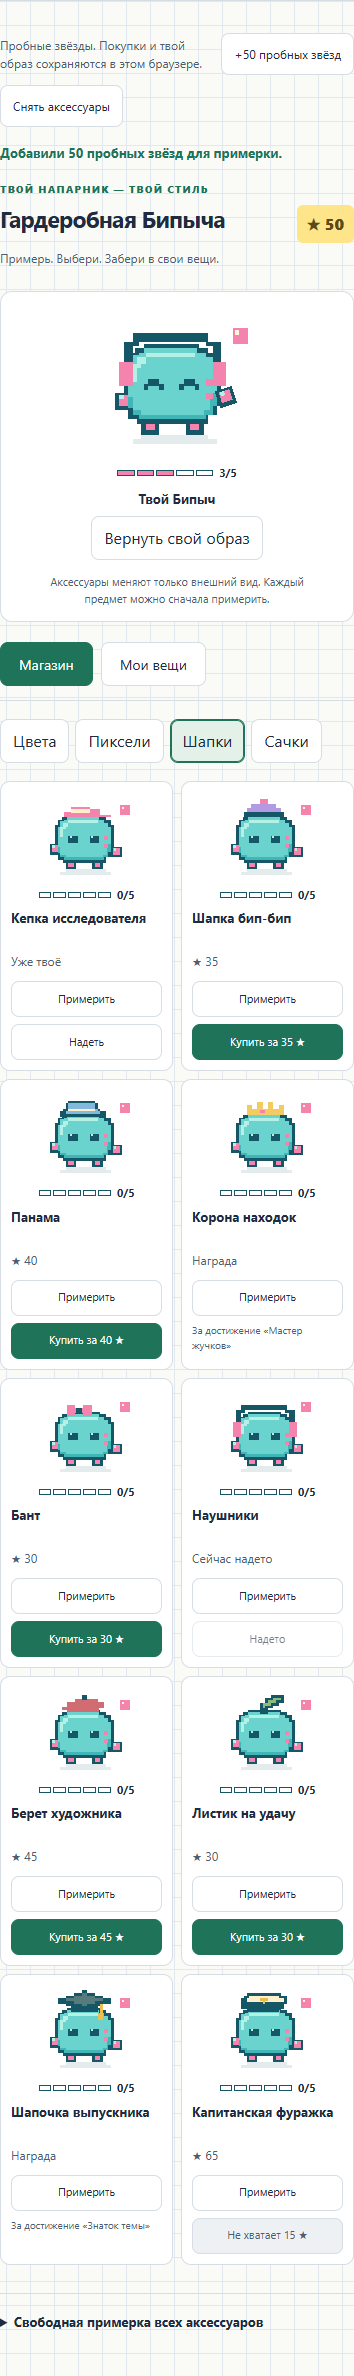
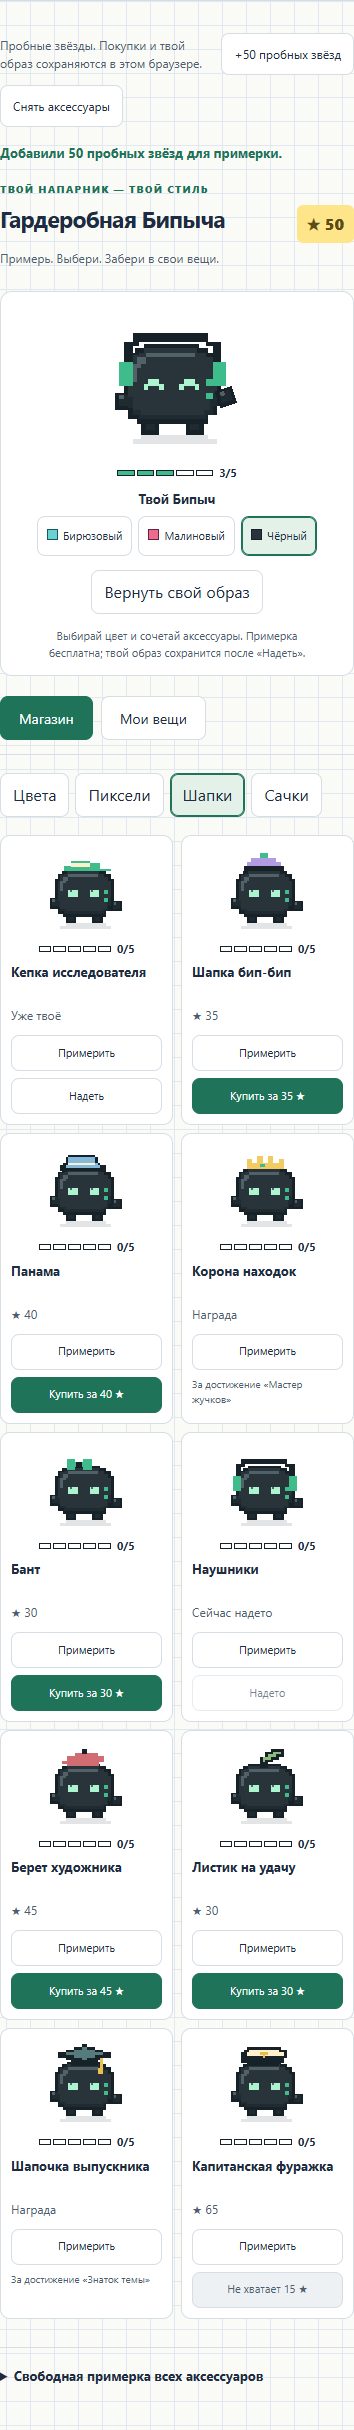
Keep mascot colors and accessory combinations during wardrobe preview

diff --git a/content/collection.js b/content/collection.js
@@ -100,6 +100,14 @@
     var owned = new Set((Array.isArray(data.owned) ? data.owned : []).filter(function (id) { return ids.has(id); }));
     var equipped = {};
     items.forEach(function (item) { if (data.equipped && data.equipped[item.slot] === item.id && owned.has(item.id)) equipped[item.slot] = item.id; });
+    var view = workshopViews.get(el) || { slot: 'hat', ownedOnly: false, outfit: Object.assign({}, equipped), equipped: {} };
+    ['screen', 'antenna', 'hat', 'net'].forEach(function (slot) {
+      if (view.equipped[slot] !== equipped[slot]) {
+        if (equipped[slot]) view.outfit[slot] = equipped[slot]; else delete view.outfit[slot];
+      }
+    });
+    view.equipped = Object.assign({}, equipped);
+    workshopViews.set(el, view);
     var stars = Number.isFinite(Number(data.stars)) ? Math.max(0, Math.floor(Number(data.stars))) : 0;
     var head = node('header', 'vc-head'), copy = node('div');
     copy.append(node('p', 'vc-eyebrow', 'Твой напарник — твой стиль'), node('h2', 'vc-title', 'Гардеробная Бипыча'), node('p', 'vc-subtitle', 'Примерь. Выбери. Забери в свои вещи.'));
@@ -107,18 +115,35 @@
     head.append(copy, balance); root.appendChild(head);
     var layout = node('div', 'vc-shop-layout'), aside = node('aside', 'vc-preview');
     var stage = node('div', 'vc-preview-stage');
-    var preview = mascot(stage, { size: 208, state: 'happy', cosmetics: equipped, charge: { done: 3, goal: 5 } }, ctx.pets);
+    var preview = mascot(stage, { size: 208, state: 'happy', cosmetics: view.outfit, charge: { done: 3, goal: 5 } }, ctx.pets);
     var previewTitle = node('p', 'vc-preview-title', 'Твой Бипыч');
-    var reset = button('Вернуть свой образ', function () { preview.setCosmetics(equipped); previewTitle.textContent = 'Твой Бипыч'; });
-    aside.append(stage, previewTitle, reset, node('p', 'vc-hint', 'Аксессуары меняют только внешний вид. Каждый предмет можно сначала примерить.'));
+    var paletteButtons = node('div', 'vc-preview-colors'); paletteButtons.setAttribute('role', 'group'); paletteButtons.setAttribute('aria-label', 'Цвет Бипыча для примерки');
+    items.filter(function (item) { return item.slot === 'screen'; }).forEach(function (item) {
+      var b = button(item.name.replace(' Бипыч', ''), function () { tryOn(item); });
+      b.dataset.previewColor = item.id; paletteButtons.appendChild(b);
+    });
+    var reset = button('Вернуть свой образ', function () { view.outfit = Object.assign({}, equipped); updatePreview('Твой Бипыч'); });
+    reset.dataset.previewReset = '';
+    aside.append(stage, previewTitle, paletteButtons, reset, node('p', 'vc-hint', 'Выбирай цвет и сочетай аксессуары. Примерка бесплатна; твой образ сохранится после «Надеть».'));
     var store = node('div', 'vc-store'), filters = node('div', 'vc-filters'), grid = node('div', 'vc-item-grid');
     var message = node('p', 'vc-message'); message.setAttribute('role', 'status'); message.setAttribute('aria-live', 'polite');
-    var view = workshopViews.get(el) || { slot: 'hat', ownedOnly: false };
-    workshopViews.set(el, view);
     var shownSlot = view.slot, cardPets = [];
     var viewButtons = node('div', 'vc-shop-views');
     var fullDispose = disposers.get(el);
     disposers.set(el, function () { cardPets.forEach(function (p) { p.destroy(); }); fullDispose(); });
+    function updatePreview(title) {
+      preview.setCosmetics(view.outfit);
+      previewTitle.textContent = title;
+      paletteButtons.querySelectorAll('button').forEach(function (b) { b.setAttribute('aria-pressed', String(b.dataset.previewColor === (view.outfit.screen || 'screen-turquoise'))); });
+      grid.querySelectorAll('[data-item]').forEach(function (card, i) {
+        var item = items.find(function (c) { return c.id === card.dataset.item; });
+        cardPets[i].setCosmetics(Object.assign({}, view.outfit, Object.fromEntries([[item.slot, item.id]])));
+      });
+    }
+    function tryOn(item) {
+      view.outfit[item.slot] = item.id;
+      updatePreview('Примеряем: ' + item.name);
+    }
     async function act(b, callback, args) {
       if (b.disabled || typeof callback !== 'function') return;
       var itemId = b.closest('[data-item]').dataset.item;
@@ -141,9 +166,9 @@
         var mine = owned.has(item.id), active = equipped[item.slot] === item.id;
         var card = node('article', 'vc-shop-item'); card.dataset.item = item.id;
         var art = node('div', 'vc-item-art');
-        mascot(art, { size: 96, cosmetics: Object.assign({}, equipped, Object.fromEntries([[item.slot, item.id]])) }, cardPets);
+        mascot(art, { size: 96, cosmetics: Object.assign({}, view.outfit, Object.fromEntries([[item.slot, item.id]])) }, cardPets);
         card.append(art, node('h3', '', item.name), node('p', 'vc-price', mine ? (active ? 'Сейчас надето' : 'Уже твоё') : item.unlock ? 'Награда' : item.price ? '★ ' + item.price : 'Бесплатно'));
-        var tryButton = button('Примерить', function () { preview.setCosmetics(Object.assign({}, equipped, Object.fromEntries([[item.slot, item.id]]))); previewTitle.textContent = 'Примеряем: ' + item.name; }, 'vc-button vc-button-quiet');
+        var tryButton = button('Примерить', function () { tryOn(item); }, 'vc-button vc-button-quiet');
         tryButton.dataset.try = item.id; card.appendChild(tryButton);
         if (mine) {
           var equip = button(active ? 'Надето' : 'Надеть', function () { act(equip, data.onEquip, [item.slot, item.id]); });
@@ -175,6 +200,7 @@
       b.dataset.slot = pair[0]; b.setAttribute('aria-pressed', String(shownSlot === pair[0])); filters.appendChild(b);
     });
     store.append(viewButtons, filters, message, grid); layout.append(aside, store); root.appendChild(layout); draw();
+    updatePreview(['screen', 'antenna', 'hat', 'net'].every(function (slot) { return view.outfit[slot] === equipped[slot]; }) ? 'Твой Бипыч' : 'Примеряем образ');
   }
   window.VEKTOR_COLLECTION = Object.freeze({ renderBugs: renderBugs, renderWorkshop: renderWorkshop });
 }());

diff --git a/assets/drobik/demo.js b/assets/drobik/demo.js
@@ -15,12 +15,13 @@
   ];
   var colors = ['screen-raspberry', 'screen-turquoise', 'screen-black'];
   var handles = [], main, cycle = null, index = 0, currentState = 'idle', palette = 'screen-turquoise';
-  var map = {}, age = 'junior', done = 2, goal = 5, line = '';
+  var map = {}, savedOutfit = {}, age = 'junior', done = 2, goal = 5, line = '';
   var wallet = window.VEKTOR_WARDROBE;
   function readOutfit() {
     var saved = wallet.getState();
     palette = saved.equipped.screen || 'screen-turquoise';
     map = Object.assign({}, saved.equipped); delete map.screen;
+    savedOutfit = Object.assign({}, saved.equipped);
   }
   readOutfit();
   function byId(id) { return document.getElementById(id); }
@@ -71,10 +72,9 @@
   var requestedState = new URLSearchParams(location.search).get('state');
   if (lib.STATES.indexOf(requestedState) >= 0) setState(requestedState);
   document.querySelectorAll('[data-palette]').forEach(function (button) {
-    button.addEventListener('click', function () {
-      palette = button.dataset.palette;
-      main.setCosmetics(Object.assign({ screen: palette }, map));
-      document.querySelectorAll('[data-palette]').forEach(function (b) { b.setAttribute('aria-pressed', String(b === button)); });
+    button.addEventListener('click', async function () {
+      try { await wallet.equip('screen', button.dataset.palette); }
+      catch (e) { notice(e.message); }
     });
   });
   ['antenna', 'hat', 'net'].forEach(function (slot) {
@@ -100,7 +100,14 @@
   byId('reset').textContent = 'Вернуть свой образ';
   function notice(text) { byId('wardrobe-notice').textContent = text; }
   function syncOutfit() {
-    readOutfit();
+    var equipped = wallet.getState().equipped;
+    palette = equipped.screen || 'screen-turquoise';
+    ['antenna', 'hat', 'net'].forEach(function (slot) {
+      if (savedOutfit[slot] !== equipped[slot]) {
+        if (equipped[slot]) map[slot] = equipped[slot]; else delete map[slot];
+      }
+    });
+    savedOutfit = Object.assign({}, equipped);
     main.setCosmetics(Object.assign({ screen: palette }, map));
     ['antenna', 'hat', 'net'].forEach(function (slot) { byId(slot).value = map[slot] || ''; });
     document.querySelectorAll('[data-palette]').forEach(function (b) { b.setAttribute('aria-pressed', String(b.dataset.palette === palette)); });
@@ -119,7 +126,11 @@
     try { await wallet.addDemoStars(50); notice('Добавили 50 пробных звёзд для примерки.'); } catch (e) { notice(e.message); }
   });
   byId('undress').addEventListener('click', async function () {
-    try { await wallet.clearAccessories(); notice('Аксессуары сняты. Покупки остались в твоих вещах.'); } catch (e) { notice(e.message); }
+    try {
+      await wallet.clearAccessories(); readOutfit(); syncOutfit();
+      byId('wardrobe').querySelector('[data-preview-reset]').click();
+      notice('Аксессуары сняты. Покупки остались в твоих вещах.');
+    } catch (e) { notice(e.message); }
   });
   syncOutfit(); renderWardrobe();
   byId('senior').addEventListener('change', function (e) { age = e.target.checked ? 'senior' : 'junior'; resetMain(); });

diff --git a/assets/collection/collection.css b/assets/collection/collection.css
@@ -32,6 +32,11 @@
 .vc-shop-layout{display:grid;grid-template-columns:240px minmax(0,1fr);gap:28px;align-items:start}
 .vc-preview{position:sticky;top:20px;display:flex;flex-direction:column;align-items:center;border:1px solid var(--line,#DAE3DE);background:var(--sheet,#FFF);border-radius:12px;padding:24px 12px;text-align:center;min-width:0}
 .vc-preview-stage{max-width:100%}.vc-preview-title{font-size:13px;font-weight:700;min-height:40px;max-width:200px;overflow-wrap:anywhere}
+.vc-preview-colors{display:flex;flex-wrap:wrap;justify-content:center;gap:6px;margin:0 0 14px}
+.vc-preview-colors .vc-button{font-size:11px;padding:7px 9px;min-height:40px}
+.vc-preview-colors .vc-button::before{content:'';display:inline-block;width:9px;height:9px;margin-right:5px;border:1px solid #155766;background:#6AD3CE}
+.vc-preview-colors [data-preview-color=screen-raspberry]::before{background:#EE6B8B;border-color:#622348}
+.vc-preview-colors [data-preview-color=screen-black]::before{background:#29343A;border-color:#172128}
 .vc-hint{font-size:11px;color:var(--ink-2,#536471);line-height:1.5;max-width:205px;margin:14px 0 0}.vc-store{min-width:0}
 .vc-item-grid{display:grid;grid-template-columns:repeat(3,minmax(0,1fr));gap:12px}
 .vc-shop-item{border:1px solid var(--line,#DAE3DE);border-radius:10px;background:var(--sheet,#FFF);padding:14px;min-width:0;display:flex;flex-direction:column;gap:7px;align-items:stretch}

diff --git a/tests/codex_wardrobe.py b/tests/codex_wardrobe.py
@@ -36,16 +36,67 @@ async def main():
             await page.goto(base + "/assets/drobik/demo.html#wardrobe-section")
             check("shop available directly in mascot demo", await page.locator("#wardrobe [data-buy=hat-cap]").count() == 1)
             check("initial demo balance", await page.evaluate("VEKTOR_WARDROBE.getState().stars === 90"))
+            await page.locator('#quick-dress summary').click()
+            await page.select_option('#hat', 'hat-cap')
+            for color in ['turquoise', 'raspberry', 'black']:
+                await page.locator(f'[data-palette=screen-{color}]').click()
+                await page.wait_for_function("color => document.querySelector('#wardrobe .vc-preview .bipych').dataset.color === color", arg=color)
+                check(f"main {color} selection reaches wardrobe and accessory cards", await page.evaluate("""color =>
+                    document.querySelector('#main-bipych .bipych').dataset.color === color
+                    && [...document.querySelectorAll('#wardrobe .vc-item-art .bipych')].every(p=>p.dataset.color===color)
+                    && VEKTOR_WARDROBE.getState().equipped.screen === 'screen-'+color
+                """, color))
+            check("main color changes keep freely tried accessories", await page.locator('#main-bipych .bipych-hat>*').count() > 0)
+            await page.select_option('#hat', '')
+            await page.locator('#quick-dress summary').click()
+            await page.locator('#wardrobe [data-try=hat-graduate]').click()
+            await page.locator('#wardrobe [data-slot=net]').click()
+            await page.locator('#wardrobe [data-try=net-mint]').click()
+            check("trying accessories combines hat and net on selected black character", await page.evaluate("""() => {
+                const p=document.querySelector('#wardrobe .vc-preview .bipych');
+                return p.dataset.color==='black' && p.querySelector('.bipych-hat').children.length>0
+                    && p.querySelector('.bipych-net').dataset.equipped==='true';
+            }"""))
+            await page.locator('#wardrobe [data-preview-color=screen-raspberry]').click()
+            check("preview color keeps tried accessories without saving or spending", await page.evaluate("""() => {
+                const p=document.querySelector('#wardrobe .vc-preview .bipych'),s=VEKTOR_WARDROBE.getState();
+                return p.dataset.color==='raspberry' && p.querySelector('.bipych-hat').children.length>0
+                    && p.querySelector('.bipych-net').dataset.equipped==='true'
+                    && [...document.querySelectorAll('#wardrobe .vc-item-art .bipych')].every(p=>p.dataset.color==='raspberry')
+                    && s.stars===90 && s.equipped.screen==='screen-black' && !s.equipped.hat && !s.equipped.net;
+            }"""))
+            await page.locator('#wardrobe [data-slot=screen]').click()
+            await page.locator('#wardrobe [data-try=screen-turquoise]').click()
+            await page.locator('#wardrobe [data-slot=hat]').click()
+            await page.locator('#wardrobe [data-try=hat-cap]').click()
+            check("color category preview survives trying the next accessory", await page.evaluate("""() => {
+                const p=document.querySelector('#wardrobe .vc-preview .bipych');
+                return p.dataset.color==='turquoise' && p.querySelector('.bipych-hat').children.length>0
+                    && p.querySelector('.bipych-net').dataset.equipped==='true';
+            }"""))
+            await page.get_by_role('button', name='Вернуть свой образ', exact=True).last.click()
+            check("reset restores saved color and removes unowned trial accessories", await page.evaluate("""() => {
+                const p=document.querySelector('#wardrobe .vc-preview .bipych');
+                return p.dataset.color==='black' && !p.querySelector('.bipych-hat').children.length
+                    && !p.querySelector('.bipych-net').hasAttribute('data-equipped')
+                    && document.querySelector('#wardrobe [data-preview-color=screen-black]').getAttribute('aria-pressed')==='true';
+            }"""))
             await page.locator("#wardrobe [data-try=hat-cap]").click()
             check("trying does not spend, own or equip", await page.evaluate("""() => {
                 const s=VEKTOR_WARDROBE.getState();
                 return s.stars===90&&!s.owned.includes('hat-cap')&&!s.equipped.hat
                     && document.querySelector('#main-bipych .bipych-hat').children.length===0;
             }"""))
+            await page.locator('#wardrobe [data-preview-color=screen-raspberry]').click()
             await page.locator("#wardrobe [data-buy=hat-cap]").click()
             await page.wait_for_function("VEKTOR_WARDROBE.getState().owned.includes('hat-cap')")
             check("purchase deducts exact price", await page.evaluate("VEKTOR_WARDROBE.getState().stars === 55"))
             check("purchase keeps category and replaces buy with equip", await page.locator("#wardrobe [data-slot=hat]").get_attribute("aria-pressed") == "true" and await page.locator("#wardrobe [data-equip=hat-cap]").count() == 1)
+            check("purchase rerender preserves preview color and tried hat", await page.evaluate("""() => {
+                const p=document.querySelector('#wardrobe .vc-preview .bipych');
+                return p.dataset.color==='raspberry' && p.querySelector('.bipych-hat').children.length>0
+                    && document.querySelector('#main-bipych .bipych').dataset.color==='black';
+            }"""))
             await page.evaluate("Promise.all([VEKTOR_WARDROBE.buy('hat-cap'),VEKTOR_WARDROBE.buy('hat-cap')])")
             check("repeated purchase does not charge twice", await page.evaluate("VEKTOR_WARDROBE.getState().stars === 55"))
             await page.locator("#wardrobe [data-equip=hat-cap]").click()
@@ -59,9 +110,17 @@ async def main():
             }"""))
             await page.locator("#wardrobe [data-shop-view=owned]").click()
             check("my items only shows owned hat", await page.locator("#wardrobe [data-item]").count() == 1 and await page.locator("#wardrobe [data-item=hat-cap]").count() == 1)
+            await page.locator('#quick-dress summary').click()
+            await page.select_option('#net', 'net-mint')
+            await page.locator('#quick-dress summary').click()
             await page.locator("#undress").click()
             await page.wait_for_function("!VEKTOR_WARDROBE.getState().equipped.hat")
             check("taking off keeps ownership", await page.evaluate("VEKTOR_WARDROBE.getState().owned.includes('hat-cap') && document.querySelector('#main-bipych .bipych-hat').children.length===0"))
+            check("taking off also clears trial accessories and keeps saved color", await page.evaluate("""() =>
+                !document.querySelector('#main-bipych .bipych-net').hasAttribute('data-equipped')
+                && !document.querySelector('#wardrobe .vc-preview .bipych-hat').children.length
+                && document.querySelector('#wardrobe .vc-preview .bipych').dataset.color==='black'
+            """))
             await page.locator("#wardrobe [data-slot=antenna]").click()
             check("empty owned category", await page.locator("#wardrobe .vc-empty-filter").count() == 1)
             await page.locator("#wardrobe [data-shop-view=store]").click()

diff --git a/docs/art/HANDOFF.md b/docs/art/HANDOFF.md
@@ -7,7 +7,7 @@
 - CX-1 — история концептов и выбранные три цвета в docs/art/bipych/selected.
 - CX-2 — content/drobik.js, styles/drobik.css, assets/drobik/demo.html. Девять состояний, три цвета, junior/senior, реплики, голос при наличии системного голоса, заряд 3…10, уменьшение движения.
 - CX-3 и CX-4 — content/art.js, assets/bugs/demo.html. 21 ключ жучка, 20 уникальных рисунков, три статуса, 12 интересов.
-- CX-5 и CX-6 — content/collection.js, assets/collection/collection.css, assets/collection/demo.html. Коллекция, звания, пустое состояние, фильтры, 30 предметов косметики, примерочная и обработчики покупки/экипировки. Покупки доступны также в демо персонажа; пробный баланс и вещи сохраняются в браузере через отдельный assets/drobik/wardrobe.js.
+- CX-5 и CX-6 — content/collection.js, assets/collection/collection.css, assets/collection/demo.html. Коллекция, звания, пустое состояние, фильтры, 30 предметов косметики, примерочная и обработчики покупки/экипировки. В примерочной есть три цвета; выбранный цвет и сочетание аксессуаров сохраняются при смене категории и покупке. Цвет верхнего персонажа в демо сохраняется и передаётся гардеробной. Покупки доступны также в демо персонажа; пробный баланс и вещи сохраняются в браузере через отдельный assets/drobik/wardrobe.js.
 - CX-7 — board.html, assets/board. Слайды из vektor-board, стрелки, клик, ответы, безопасный HTML и формат проектора.
 - CX-8 — landing/index.html и landing/pitch.html. Лендинг и семь сцен питча, метрики «Скоро».
 - CX-9 — print/stickers.html и print/slip.html. 24 наклейки и восемь шаблонов входа на A4.
@@ -41,7 +41,7 @@
     node tests/game.test.js
     node tests/worker.test.mjs
 
-Отдельно проверены: анимации, пиксельная графика и геометрия сачка 53/53, рисунки 15/15, коллекция 54/54, покупки и сохранение гардеробной 31/31, доска 12/12, лендинг и питч 28/28, печать 10/10. Всего 203 проверки, общий запуск зелёный. Существующий e2e — 62/62; 27000 сгенерированных задач без ошибок, остальные модульные проверки зелёные. Соответствие пунктам CX-1…CX-10 перечислено в ACCEPTANCE.md.
+Отдельно проверены: анимации, пиксельная графика и геометрия сачка 53/53, рисунки 15/15, коллекция 54/54, покупки, цвета примерки и сохранение гардеробной 41/41, доска 12/12, лендинг и питч 28/28, печать 10/10. Всего 213 проверок. Существующий e2e — 62/62; 27000 сгенерированных задач без ошибок, остальные модульные проверки зелёные. Соответствие пунктам CX-1…CX-10 перечислено в ACCEPTANCE.md.
 
 Восемь вариантов оформления демо анимаций проверены при 1440/390 px. Коллекция — также при 768 px. Каждый SVG состояния около 5 КБ; модуль персонажа с CSS и модуль рисунков вместе около 37 КБ, ниже лимита 400 КБ. Растровые концепты и снимки лежат только в docs/art и не загружаются продуктом.
 

diff --git a/docs/art/ACCEPTANCE.md b/docs/art/ACCEPTANCE.md
@@ -9,10 +9,10 @@
 | CX-3 | 21 карточка жучка, 20 уникальных рисунков, 3 статуса | 63 корректных SVG, неизвестные ключи, общий Складыватель |
 | CX-4 | 12 интересов | Галерея при 24 и 40 px, уникальные SVG |
 | CX-5 | Коллекция, звание, фильтры, истории побед, пустое состояние | 1440, 768, 390 px и подготовленные данные |
-| CX-6 | 30 предметов, примерочная, магазин, свои вещи, покупка и экипировка | Все 26136 сочетаний состояния и аксессуаров; сохранение, две вкладки, отсутствие двойного списания |
+| CX-6 | 30 предметов, примерочная с тремя цветами, магазин, свои вещи, покупка и экипировка | Все 26136 сочетаний состояния и аксессуаров; примерка сочетаний без сброса цвета, сохранение, две вкладки, отсутствие двойного списания |
 | CX-7 | board.html, 3 слайда, Бипыч, стрелки, ответы, fullscreen | 1280×720, основной текст от 40 px, безопасный HTML |
 | CX-8 | Лендинг и 7 сцен HTML-питча | Телефон, проектор, метрики «Скоро», реальные ссылки |
 | CX-9 | 24 наклейки A4 и 8 карточек входа с четырьмя метками | По одной странице A4 в Chrome; контрольные PDF и PNG |
-| CX-10 | Единая команда tests/codex_visual.py и отдельные наборы | 203 локальные проверки; установка команды в общий workflow остаётся интегратору |
+| CX-10 | Единая команда tests/codex_visual.py и отдельные наборы | 213 локальных проверок; установка команды в общий workflow остаётся интегратору |
 
 Общие файлы приложения, сервер и учебное ядро не изменены. Для слияния и подключения подготовлен HANDOFF.md. Ветки не слиты в main, PR по ограничению владельца не открыт.
